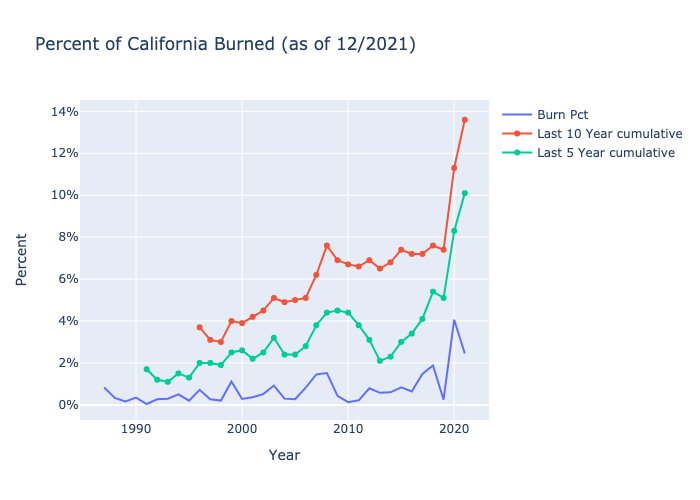
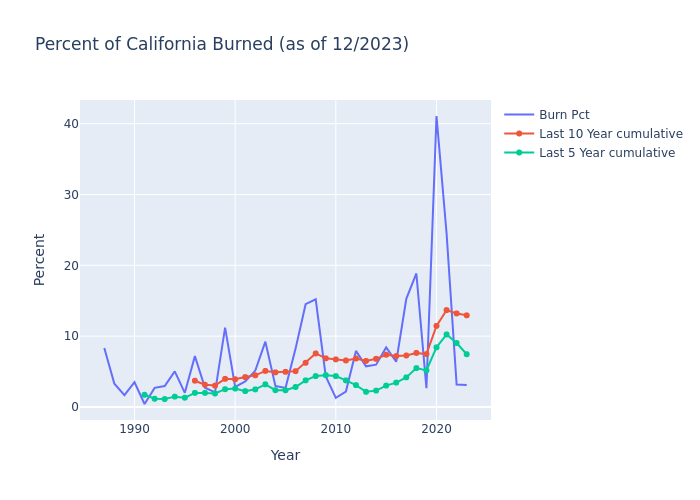
Updating Fire Images to 2023

diff --git a/_projects/FireData.md b/_projects/FireData.md
@@ -10,6 +10,9 @@ To better understand this, I've created the following chart which normalizes the
 
 The below chart is what fires consumption normalized to the size of California (and the trailing 5- and 10-year sums). Over the last 10 years fires burned more than 10% of the state.
 
-The source of the data is [Cal Fire Stats](https://www.fire.ca.gov/stats-events/)
+The source of the data is [Cal Fire Stats](https://www.fire.ca.gov/stats-events/).
 
-![California Fires](/images/fire.png)
+<div style="text-align: center;">
+  <img src="/images/fire.png" alt="California Fires" style="width: 90%;">
+</div>
+
